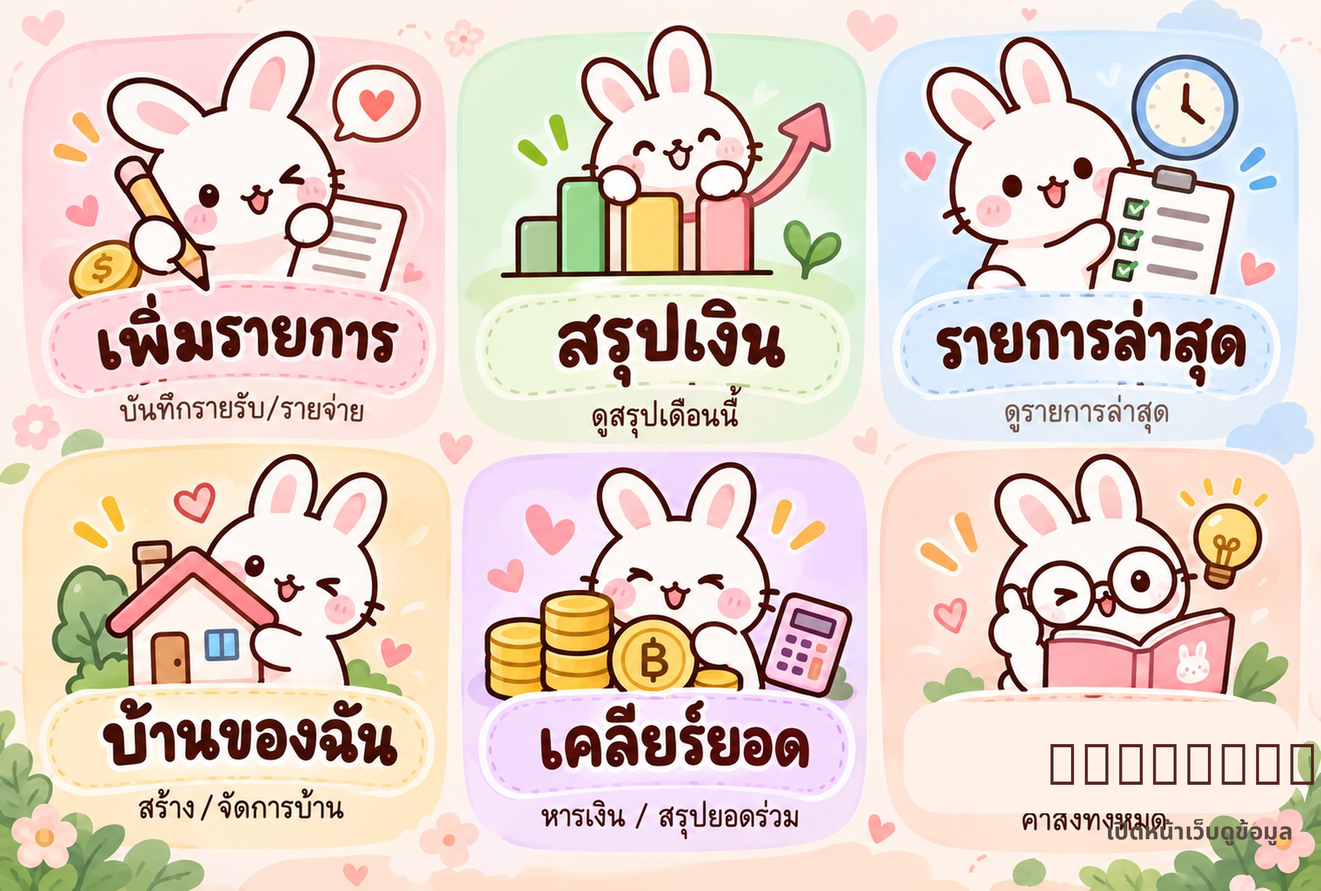
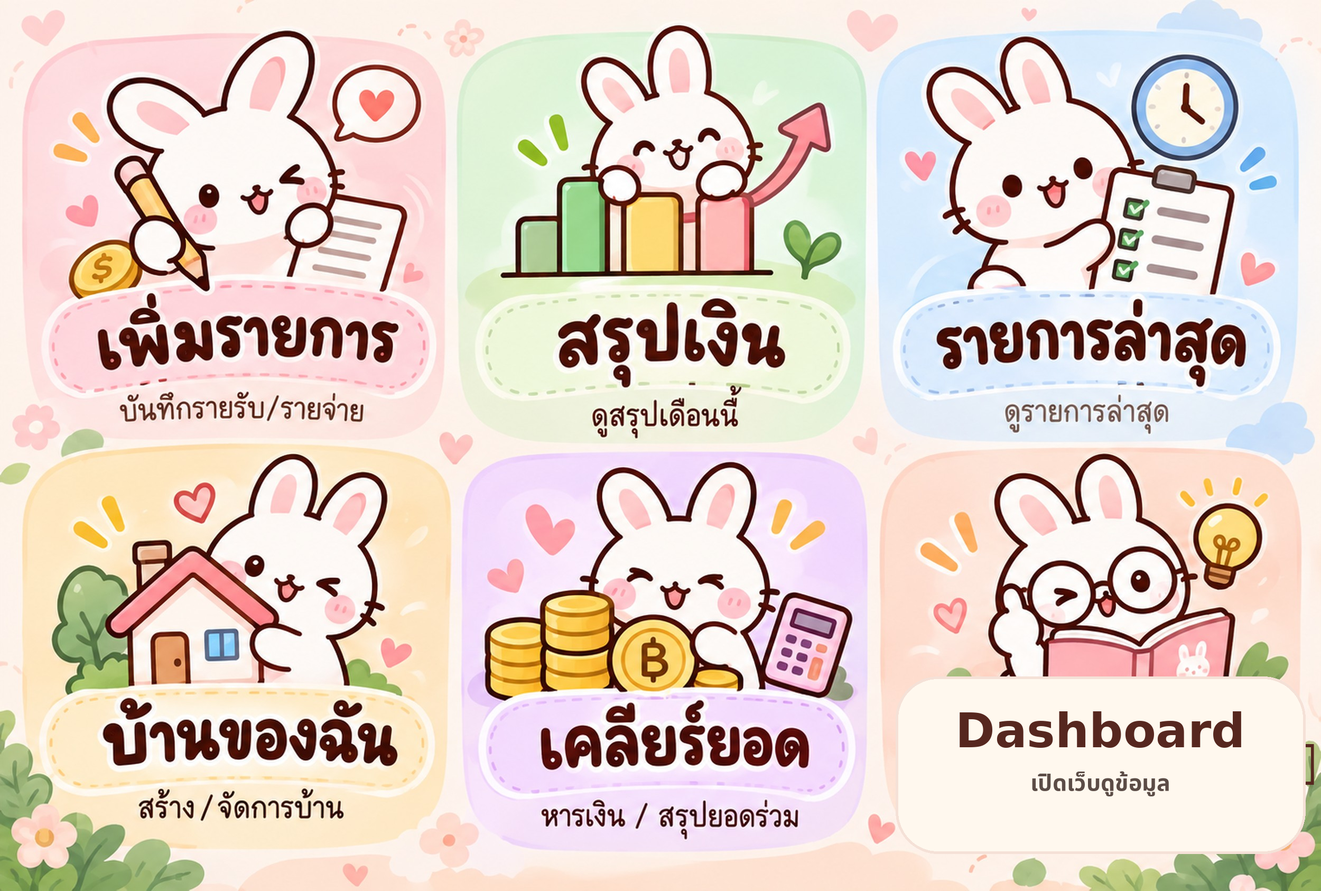
Add files via upload

Changed region(s): [[0.6552, 0.7402, 0.9984, 0.9561]]

diff --git a/database.py b/database.py
@@ -312,7 +312,7 @@ def get_summary(month=None, user_id=None, household_id=None):
     where = f'substr(occurred_at,1,7)=? AND {scope}'; qparams = [month] + params
     with conn() as c:
         total = c.execute(f'SELECT type,COALESCE(SUM(amount),0) total FROM transactions WHERE {where} GROUP BY type', qparams).fetchall()
-        cats = c.execute(f"SELECT category,type,COALESCE(SUM(amount),0) total,COUNT(*) count FROM transactions WHERE {where} AND type='expense' GROUP BY category ORDER BY total DESC", qparams).fetchall()
+        cats = c.execute(f"SELECT category,type,COALESCE(SUM(amount),0) total,COUNT(*) count FROM transactions WHERE {where} AND type='expense' GROUP BY category,type ORDER BY total DESC", qparams).fetchall()
         count = c.execute(f'SELECT COUNT(*) FROM transactions WHERE {where}', qparams).fetchone()[0]
     income = next((r['total'] for r in total if r['type']=='income'), 0); expense = next((r['total'] for r in total if r['type']=='expense'), 0)
     return {'month':month,'income':income,'expense':expense,'balance':income-expense,'count':count,'categories':[dict(r) for r in cats]}

diff --git a/README.md b/README.md
@@ -50,3 +50,10 @@ Set `SUPER_ADMIN_USER_ID` to the one LINE User ID that owns the MeeTang system. 
 - Rich Menu bottom-right button opens DASHBOARD_URL (default: https://meetang-bot.onrender.com)
 - Split expenses support ratio syntax such as `หาร 60:40`, `60/40`, and named percentages.
 - Added examples to LINE help.
+
+## v26 fix
+- Fixed PostgreSQL summary query: category + type are both included in GROUP BY.
+
+## v26.1 Rich Menu
+- Bottom-right Rich Menu panel visibly says Dashboard.
+- The panel action opens DASHBOARD_URL (default https://meetang-bot.onrender.com).
